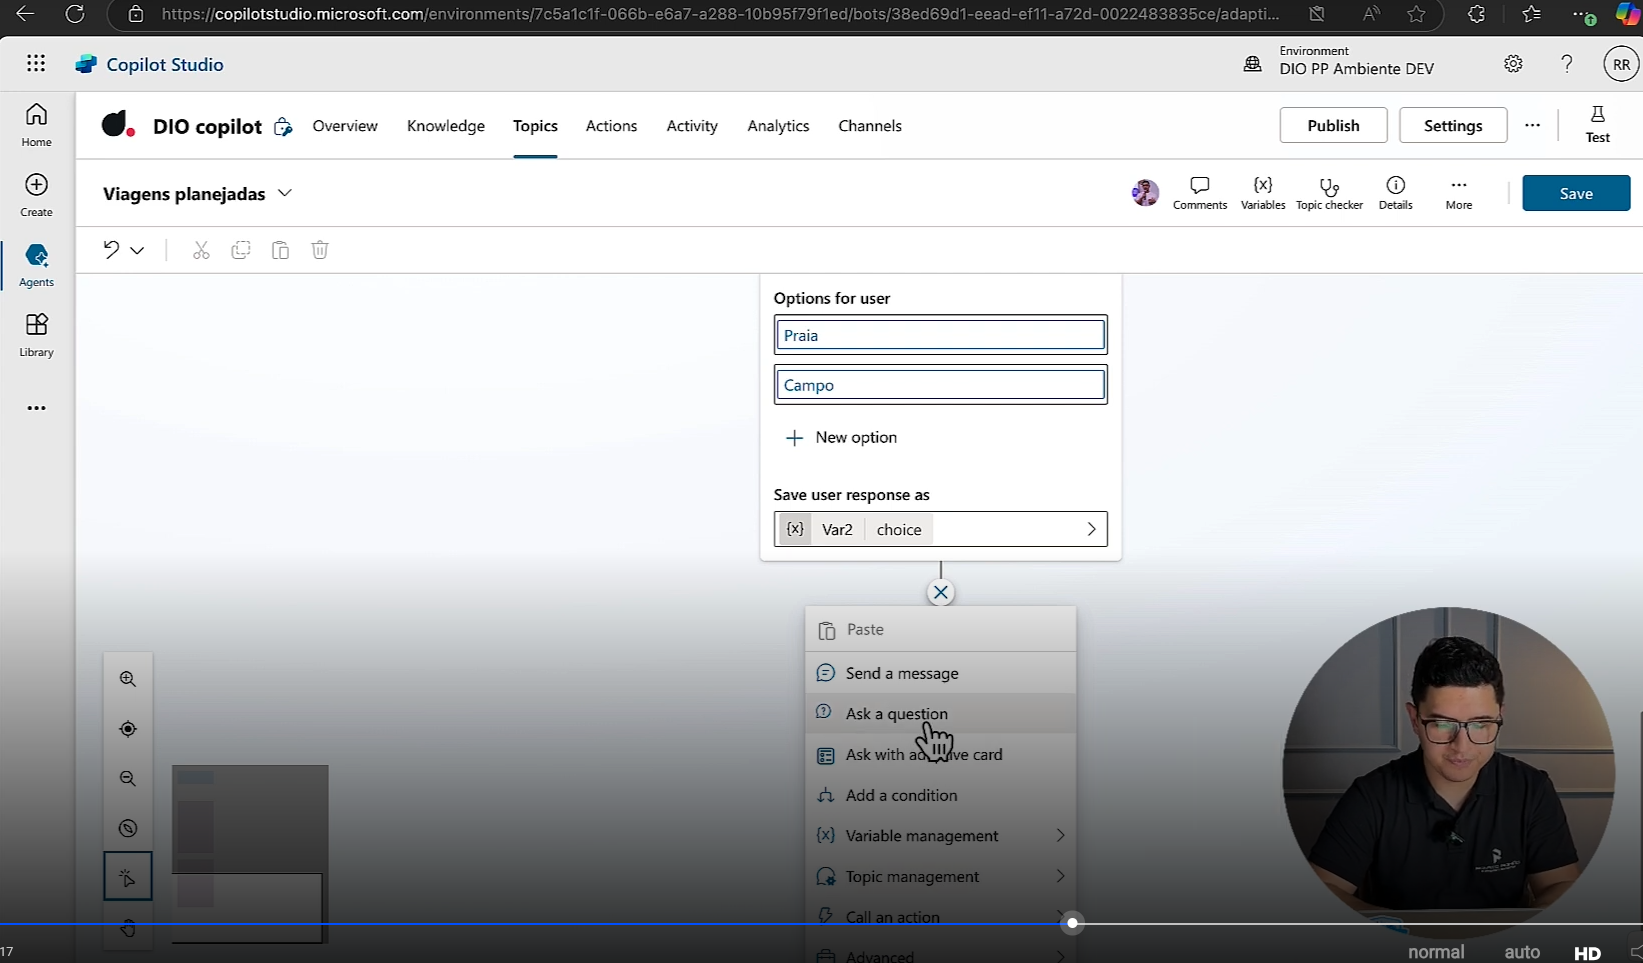
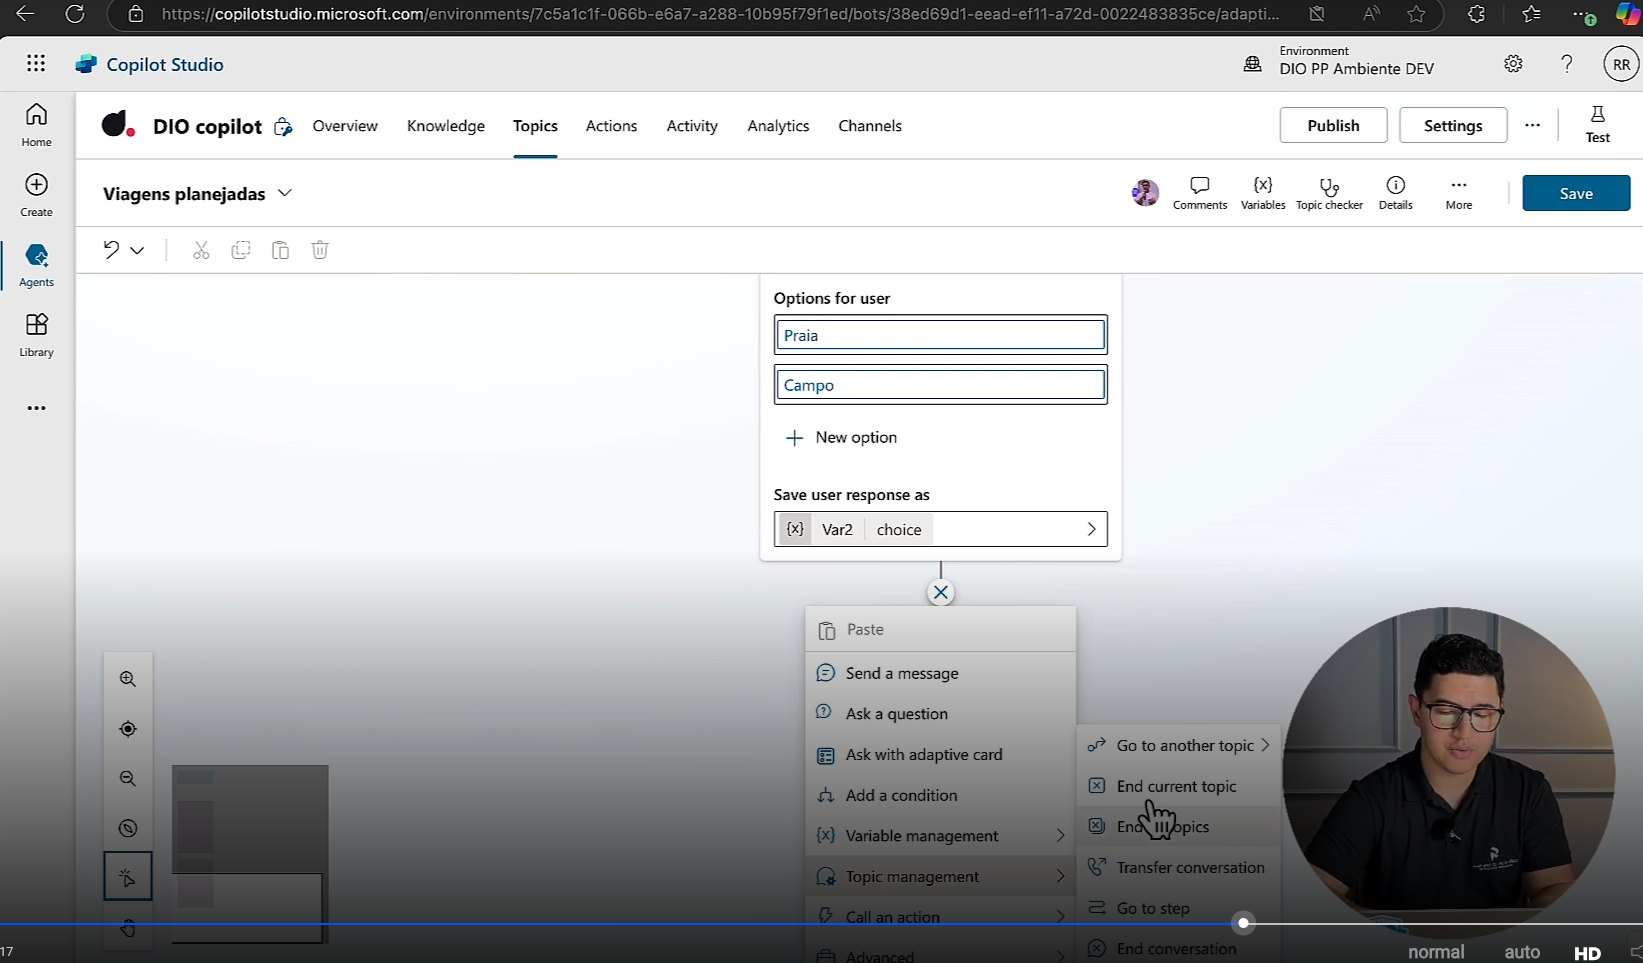
Update README.md

diff --git a/Suzano - Python Developer/Modulo_05/05-Curso_5-Ramificando_um_Topico_no_Microsoft_Copilot_Studio/README.md b/Suzano - Python Developer/Modulo_05/05-Curso_5-Ramificando_um_Topico_no_Microsoft_Copilot_Studio/README.md
@@ -77,6 +77,8 @@
 - Independentemente do tipo de pergunta ele sempre vai salvar a resposta em uma variável.
 - Como eu posso usar essa variável para fazer uma ramificação?
 - Posso adicionar uma nova ação dentro do nosso Copilot Studio ...
+    - Enviar uma mensagem, fazer uma pergunta, etc ...
+    - A parte de gerenciamento de tópicos é muito importante para a ramificação ..
 
 <details>
 <summary> Slide da aula🔻</summary>
@@ -85,6 +87,14 @@
 </p>
 </details>
 
+- Além disso, posso chamar uma ação
+
+<details>
+<summary> Slide da aula🔻</summary>
+<p align="center">
+    <img src="images/image-9.png" alt="" width="840">
+</p>
+</details>
 
 
 ## 🟩 Vídeo 03 - Criando uma Condição
